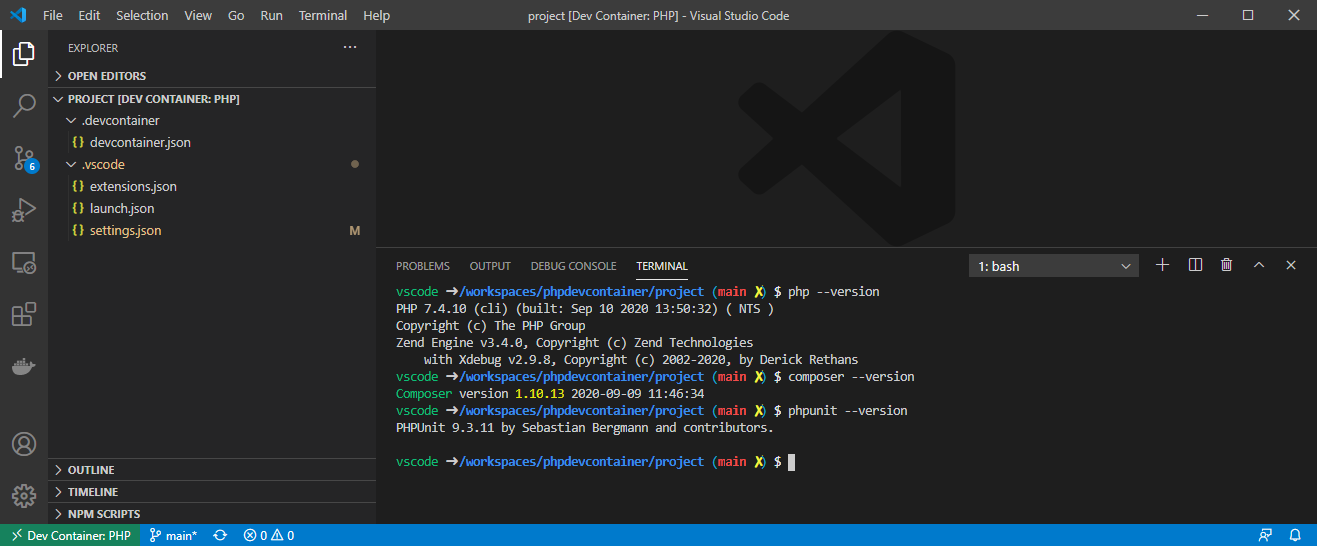
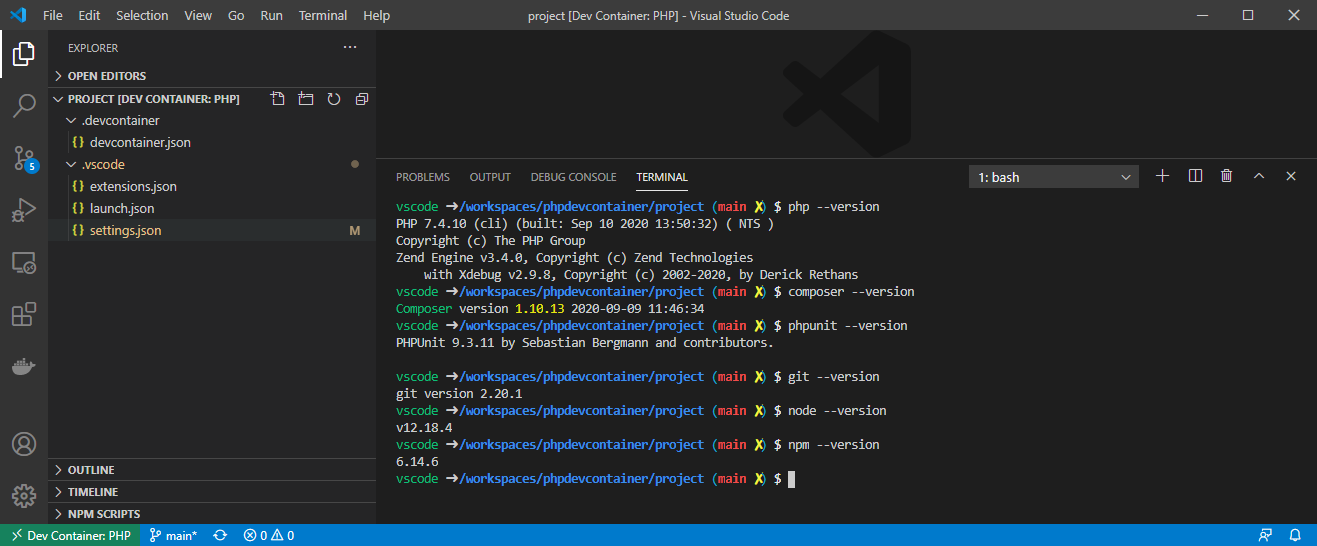
added symfony

diff --git a/README.md b/README.md
@@ -7,6 +7,14 @@ Find it on the docker hub : https://hub.docker.com/r/jrouaix/phpdevcontainer
 docker pull jrouaix/phpdevcontainer:latest
 ```
 
+## Installed in this dev container
+- php
+- composer
+- phpunit
+- node
+- npm
+- symfony
+
 ## To enjoy a working php environment in VSCode
 - copy the `project` folder content at the root of your repository
 - open your repo in VSCode
